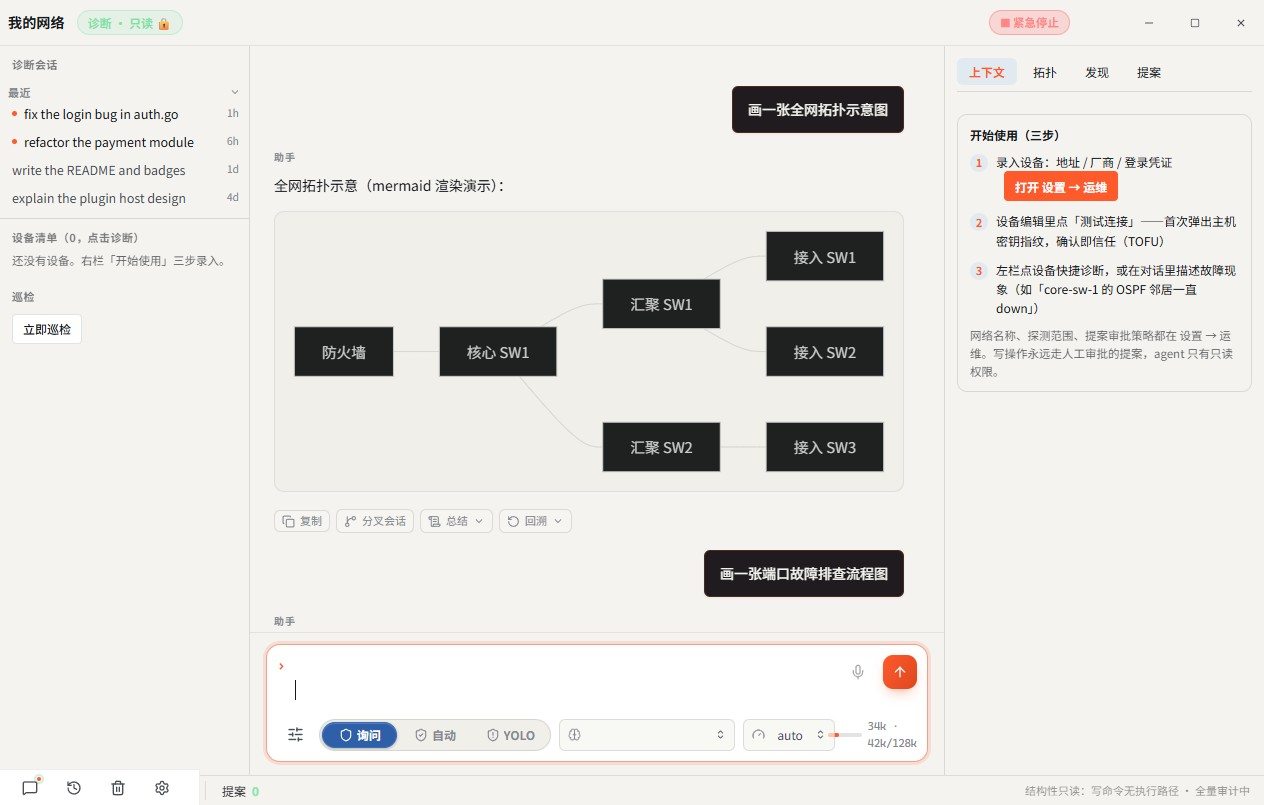
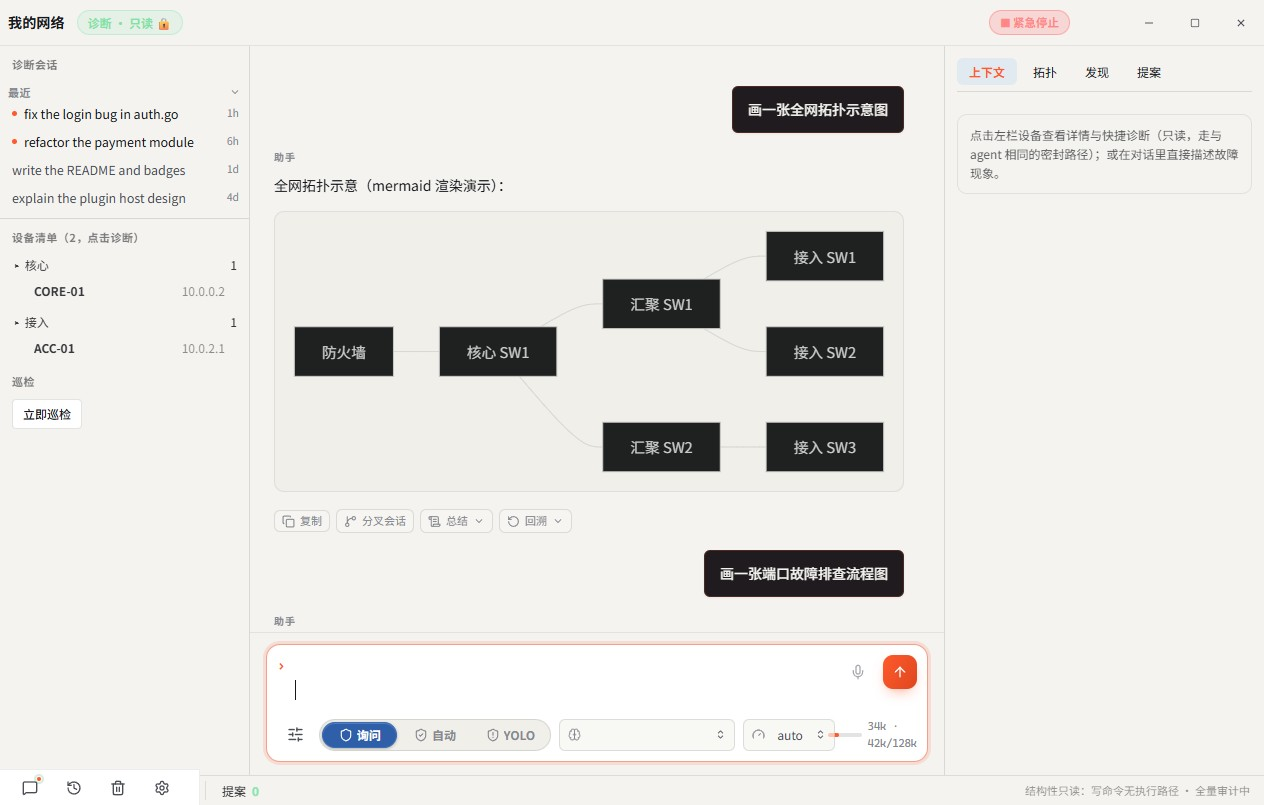
feat(netdev-ui): 交互式拓扑——节点点击→设备卡，配置入口（读即抓取/写走提案）
- TopologyMap 分层带布局（核心/汇聚/接入按连接度推断，未纳管邻居沉底虚线框），
  链路悬停显示端口，节点悬停显示 IP/纳管状态/连接度，选中节点高亮
- 点击纳管节点（名称或管理 IP 匹配设备清单）→ 右栏切到设备卡；
  未匹配给录入引导提示；进入拓扑 tab 自动生成一次
- 设备卡新增「抓取当前配置」（厂商只读 config 命令）与「AI 配置变更…」
  （composer 注入起草提示词——写操作仍必须走 netdev_propose 提案，密封不破）
- bridge mock：校园网拓扑数据 + CORE-01/ACC-01 种子设备，dev shell 可完整演示
- ndvshot: 拓扑点击链路断言（点 CORE-01 → dock 出现设备卡），ndv-5 证据图

diff --git a/desktop/frontend/src/layouts/NetDevLayout.tsx b/desktop/frontend/src/layouts/NetDevLayout.tsx
@@ -1,4 +1,4 @@
-import { type ReactNode, useCallback, useEffect, useState } from "react";
+import { type ReactNode, useCallback, useEffect, useRef, useState } from "react";
 import { app } from "../lib/bridge";
 import type { NetDevSettingsView, NetDevFinding, NetDevProposal, NetDevAuditEntryView, NetDevTopologyGraph } from "../lib/types";
 import "../styles/netdev.css";
@@ -47,6 +47,14 @@ const QUICK_BATTERY: Record<string, string[]> = {
   zte: ["show version", "show processor cpu", "show interface brief"],
 };
 
+// Read-only "grab the running config" command per vendor — the first step of
+// any 配置 task (backup / diff / proposal drafting).
+const CFG_CMD: Record<string, string> = {
+  huawei: "display current-configuration",
+  cisco: "show running-config",
+  zte: "show running-config",
+};
+
 type QuickResult = { command: string; output: string; isError: boolean; refused?: string };
 type DockTab = "context" | "topology" | "findings" | "proposals";
 
@@ -55,11 +63,15 @@ export function NetDevLayout({
   footerNode,
   sessionsNode,
   onOpenSettings,
+  onInsertComposer,
 }: {
   mainNode: ReactNode;
   footerNode: ReactNode;
   sessionsNode: ReactNode;
   onOpenSettings: (tab: string) => void;
+  // Fills the chat composer with a starter prompt (the AI-配置 entry point on
+  // the device card / topology nodes). Optional: card hides the button if absent.
+  onInsertComposer?: (text: string) => void;
 }) {
   const [settings, setSettings] = useState<NetDevSettingsView | null>(null);
   const [findings, setFindings] = useState<NetDevFinding[]>([]);
@@ -69,6 +81,7 @@ export function NetDevLayout({
   const [quick, setQuick] = useState<Record<string, QuickResult>>({});
   const [topo, setTopo] = useState<NetDevTopologyGraph | null>(null);
   const [topoBusy, setTopoBusy] = useState(false);
+  const [topoNotice, setTopoNotice] = useState("");
   const [inspBusy, setInspBusy] = useState(false);
   const [tab, setTab] = useState<DockTab>("context");
   const [err, setErr] = useState(""); // shown in the global title bar
@@ -116,6 +129,32 @@ export function NetDevLayout({
       setTopoBusy(false);
     }
   }, []);
+
+  // Topology node names come from LLDP sysnames, which need not equal the
+  // configured device names — match by name first, then by management IP.
+  const devicesRef = useRef<NetDevSettingsView["devices"]>([]);
+  devicesRef.current = settings?.devices ?? [];
+  const pickFromTopo = useCallback((name: string) => {
+    const node = topo?.nodes.find(v => v.name === name);
+    const hit = devicesRef.current.find(d => d.name === name || (node?.device_ip && d.address === node.device_ip));
+    if (hit) {
+      setSelected(hit.name);
+      setTab("context");
+      setTopoNotice("");
+      return;
+    }
+    setTopoNotice(`「${name}」不在设备清单——邻居表发现的节点（未纳管或无凭证），到 设置 → 运维 录入后即可点击诊断。`);
+  }, [topo]);
+
+  // Entering the 拓扑 tab auto-generates once (per mount) when devices exist,
+  // so the map is simply there after a probe instead of hiding behind a click.
+  const topoAutoFired = useRef(false);
+  useEffect(() => {
+    if (tab === "topology" && !topoAutoFired.current && !topo && !topoBusy && (settings?.devices?.length ?? 0) > 0) {
+      topoAutoFired.current = true;
+      void genTopology();
+    }
+  }, [tab, topo, topoBusy, settings, genTopology]);
 
   const runInspection = useCallback(async () => {
     setInspBusy(true);
@@ -228,6 +267,20 @@ export function NetDevLayout({
                   <span key={cmd} className="btn btn--secondary btn--small" role="button" onClick={() => void runQuick(selectedDevice.name, cmd)}>{cmd}</span>
                 ))}
               </div>
+              <div className="ndv__quick-cmds">
+                <span
+                  className="btn btn--secondary btn--small"
+                  role="button"
+                  onClick={() => void runQuick(selectedDevice.name, CFG_CMD[selectedDevice.vendor] ?? "display current-configuration")}
+                >抓取当前配置</span>
+                {onInsertComposer && (
+                  <span
+                    className="btn btn--primary btn--small"
+                    role="button"
+                    onClick={() => onInsertComposer(`帮我在 ${selectedDevice.name}（${selectedDevice.address}）上完成以下变更：\n变更内容：\n（请先用只读命令确认现状，再用 netdev_propose 起草提案——写命令必须包含对应的回滚命令，不会直接执行，需我在提案中心批准。）`)}
+                  >AI 配置变更…</span>
+                )}
+              </div>
               {Object.values(quick).map(r => (
                 <div key={r.command} className="ndv__quick-result">
                   <div className="ndv__quick-cmd" style={r.isError ? { color: "#ff8787" } : undefined}>{r.command}</div>
@@ -248,7 +301,15 @@ export function NetDevLayout({
                 {topoBusy ? "采集邻居表中…" : "生成拓扑（读取全网邻居表）"}
               </span>
             </div>
-            {topo && <TopologyMap graph={topo} />}
+            {topoNotice && (
+              <div className="ndv__hint" style={{ padding: 0, marginBottom: 8, color: "var(--accent, #7ab8ff)" }}>{topoNotice}</div>
+            )}
+            {topo && <TopologyMap graph={topo} selected={selected} selectedAddr={selectedDevice?.address} onPick={pickFromTopo} />}
+            {!topo && !topoBusy && (
+              <div className="ndv__hint" style={{ padding: 0 }}>
+                生成拓扑 = 对全部纳管设备执行只读的 LLDP/CDP 邻居表读取，按连接度自动分层为核心 / 汇聚 / 接入；未纳管邻居沉底（虚线框）。
+              </div>
+            )}
           </div>
         )}
 
@@ -341,39 +402,102 @@ function ProposalRow({ p }: { p: NetDevProposal }) {
   );
 }
 
-// TopologyMap: deterministic circular layout (hierarchical layout arrives
-// with the flowchart-engine integration).
-function TopologyMap({ graph }: { graph: NetDevTopologyGraph }) {
-  const W = 270, H = 190, R = Math.min(W, H) / 2 - 22;
-  const n = graph.nodes.length;
-  const pos = (i: number) => ({
-    x: W / 2 + R * Math.cos((2 * Math.PI * i) / Math.max(n, 1) - Math.PI / 2),
-    y: H / 2 + R * Math.sin((2 * Math.PI * i) / Math.max(n, 1) - Math.PI / 2),
+// TopologyMap: tiered layout — connection degree infers 核心/汇聚/接入 bands
+// (real ops shape), unmanaged neighbors sink to the bottom in grey. Ports ride
+// the link as a hover tooltip; clicking a managed node selects the device
+// (onPick); `selected` highlights the picked node.
+function TopologyMap({ graph, selected, selectedAddr, onPick }: { graph: NetDevTopologyGraph; selected?: string; selectedAddr?: string; onPick?: (name: string) => void }) {
+  const W = 520, H = 360;
+  // Degree per node (managed nodes only drive tiering).
+  const degree = new Map<string, number>();
+  for (const n of graph.nodes) degree.set(n.name, 0);
+  for (const e of graph.edges) {
+    if (e.local_device !== e.remote_device) {
+      degree.set(e.local_device, (degree.get(e.local_device) ?? 0) + 1);
+      degree.set(e.remote_device, (degree.get(e.remote_device) ?? 0) + 1);
+    }
+  }
+  const managed = graph.nodes.filter(v => v.managed);
+  // Tier thresholds relative to the busiest node: core ≥ 60% of max degree,
+  // aggregation ≥ 30%, rest access. Managed nodes without links join access.
+  const maxDeg = Math.max(1, ...managed.map(v => degree.get(v.name) ?? 0));
+  const tierOf = (name: string): number => {
+    const d = degree.get(name) ?? 0;
+    if (d >= maxDeg * 0.6) return 0;
+    if (d >= maxDeg * 0.3) return 1;
+    return 2;
+  };
+  // Unmanaged neighbors get their own bottom band (tier 3).
+  const bands: string[][] = [[], [], [], []];
+  for (const v of graph.nodes) bands[v.managed ? tierOf(v.name) : 3].push(v.name);
+  const pos = new Map<string, { x: number; y: number }>();
+  const bandY = [46, 148, 250, 322];
+  bands.forEach((band, bi) => {
+    const n = band.length;
+    band.forEach((name, i) => {
+      pos.set(name, { x: n === 1 ? W / 2 : 36 + ((W - 72) * i) / Math.max(n - 1, 1), y: bandY[bi] });
+    });
   });
-  const idx = new Map(graph.nodes.map((v, i) => [v.name, i]));
+  const node = (name: string) => graph.nodes.find(v => v.name === name);
+  const TIER_LABEL = ["核心层", "汇聚层", "接入层", "未纳管邻居"];
   return (
     <div>
-      <svg width={W} height={H} style={{ maxWidth: "100%", marginTop: 8 }}>
+      <svg viewBox={`0 0 ${W} ${H}`} style={{ width: "100%", maxWidth: 640, marginTop: 8, display: "block" }}>
+        {bandY.map((y, i) =>
+          bands[i].length > 0 ? (
+            <text key={i} x={10} y={y - 20} fontSize={10} fill="var(--text-dim, #888)" opacity={0.8}>
+              {TIER_LABEL[i]}
+            </text>
+          ) : null,
+        )}
         {graph.edges.map((e, i) => {
-          const a = idx.get(e.local_device), b = idx.get(e.remote_device);
-          if (a === undefined || b === undefined) return null;
-          const pa = pos(a), pb = pos(b);
-          return <line key={i} x1={pa.x} y1={pa.y} x2={pb.x} y2={pb.y} stroke="var(--border)" strokeWidth={1} />;
-        })}
-        {graph.nodes.map((v, i) => {
-          const p = pos(i);
+          const pa = pos.get(e.local_device), pb = pos.get(e.remote_device);
+          if (!pa || !pb) return null;
           return (
-            <g key={v.name}>
-              <circle cx={p.x} cy={p.y} r={5.5} fill={v.managed ? "var(--accent, #7ab8ff)" : "var(--text-dim, #888)"} />
-              <text x={p.x} y={p.y - 9} textAnchor="middle" fontSize={8.5} fill="var(--text, #ccc)">
-                {v.name.length > 10 ? v.name.slice(0, 10) + "…" : v.name}
+            <line
+              key={i}
+              x1={pa.x} y1={pa.y} x2={pb.x} y2={pb.y}
+              stroke="var(--border, #555)"
+              strokeWidth={1}
+              opacity={0.85}
+            >
+              <title>{`${e.local_device}:${e.local_port} ⇄ ${e.remote_device}${e.remote_port ? ":" + e.remote_port : ""} (${e.source})`}</title>
+            </line>
+          );
+        })}
+        {graph.nodes.map(v => {
+          const p = pos.get(v.name);
+          if (!p) return null;
+          const tier = v.managed ? tierOf(v.name) : 3;
+          const nv = node(v.name);
+          const sel = !!v.managed && (!!selected && (v.name === selected || nv?.device_ip === selectedAddr));
+          return (
+            <g
+              key={v.name}
+              style={{ cursor: v.managed && onPick ? "pointer" : "default" }}
+              onClick={() => v.managed && onPick?.(v.name)}
+            >
+              <rect
+                x={p.x - 30} y={p.y - 10} width={60} height={20} rx={5}
+                fill={sel
+                  ? "var(--accent-dim, rgba(122,184,255,.2))"
+                  : v.managed ? "var(--bg-elev, #2a2a2e)" : "transparent"}
+                stroke={sel
+                  ? "var(--accent, #7ab8ff)"
+                  : v.managed ? (tier === 0 ? "var(--accent, #7ab8ff)" : "var(--border, #555)") : "var(--border, #555)"}
+                strokeWidth={sel ? 2 : v.managed && tier === 0 ? 1.6 : 1}
+                strokeDasharray={v.managed ? undefined : "3 3"}
+              />
+              <text x={p.x} y={p.y + 3.5} textAnchor="middle" fontSize={9} fill={v.managed ? "var(--text, #ccc)" : "var(--text-dim, #888)"}>
+                {v.name.length > 9 ? v.name.slice(0, 9) + "…" : v.name}
               </text>
+              <title>{`${v.name}${nv?.device_ip ? " · " + nv.device_ip : ""}${v.managed ? " · 纳管" : " · 未纳管"} · 连接 ${degree.get(v.name) ?? 0}${v.managed && onPick ? " · 点击查看设备" : ""}`}</title>
             </g>
           );
         })}
       </svg>
       <div style={{ opacity: 0.6, fontSize: 11 }}>
-        {graph.nodes.filter(v => v.managed).length} 纳管 · {graph.nodes.filter(v => !v.managed).length} 未纳管（灰，不可连） · {graph.edges.length} 链路 · {graph.at}
+        {graph.nodes.filter(v => v.managed).length} 纳管 · {graph.nodes.filter(v => !v.managed).length} 未纳管（虚线框,不可连） · {graph.edges.length} 链路 · 悬停链路看端口 · {graph.at}
       </div>
     </div>
   );

diff --git a/desktop/frontend/src/lib/bridge.ts b/desktop/frontend/src/lib/bridge.ts
@@ -97,6 +97,7 @@ import type {
   BotDockStatusView,
   CatalogEntry,
   MarketSourceMeta,
+  NetDevTopologyNode,
 } from "./types";
 
 const GLOBAL_PROJECT_ORDER_KEY = "__global__";
@@ -1700,7 +1701,17 @@ function makeMockApp(): AppBindings {
   // NetDev mock: an in-memory settings store so the browser dev shell can
   // exercise the netdev panel without the Go backend. Passwords/audit/ssh
   // imports are stubbed — the real implementations live in the Go bindings.
-  let mockNetDev: NetDevSettingsView = { enabled: false, networkName: "我的网络", devices: [], hops: [], groups: [], auditRetention: "", scopes: [] };
+  // Two seeded devices mirror the topology mock (CORE-01/ACC-01) so the
+  // click-a-node → device card flow is demoable in the browser dev shell.
+  let mockNetDev: NetDevSettingsView = {
+    enabled: false,
+    networkName: "我的网络",
+    devices: [
+      { name: "CORE-01", vendor: "huawei", os: "vrp", model: "S5731", address: "10.0.0.2", port: 22, via: [], group: "核心", username: "netops", passwordEnv: "NETDEV_CORE01_PW", passwordSet: true, identityFile: "", encoding: "", allowTelnet: false },
+      { name: "ACC-01", vendor: "huawei", os: "vrp", model: "S3100", address: "10.0.2.1", port: 22, via: [], group: "接入", username: "netops", passwordEnv: "NETDEV_ACC01_PW", passwordSet: true, identityFile: "", encoding: "", allowTelnet: false },
+    ],
+    hops: [], groups: [], auditRetention: "", scopes: [],
+  };
   return {
     async NetDevSettings() {
       return mockNetDev;
@@ -1720,7 +1731,36 @@ function makeMockApp(): AppBindings {
     async NetDevQuickExec(device: string, command: string) {
       return { device, command, class: "read", output: "(browser dev mock: no device backend)", is_error: false };
     },
-    async NetDevTopologySnapshot() { return null; },
+    async NetDevTopologySnapshot() {
+      // Browser-dev stand-in shaped like a real small campus net (FW → 2 core →
+      // 2 aggregation → 3 access + an unmanaged neighbor) so the tiered
+      // TopologyMap is demoable without the Go backend.
+      const N = (name: string, managed: boolean, ip?: string): NetDevTopologyNode => ({ name, managed, device_ip: ip });
+      return {
+        nodes: [
+          N("FW-01", true, "10.0.0.1"),
+          N("CORE-01", true, "10.0.0.2"), N("CORE-02", true, "10.0.0.3"),
+          N("AGG-01", true, "10.0.1.1"), N("AGG-02", true, "10.0.1.2"),
+          N("ACC-01", true, "10.0.2.1"), N("ACC-02", true, "10.0.2.2"), N("ACC-03", true, "10.0.2.3"),
+          N("SRV-ESXi", false), N("IPSLA-P", false),
+        ],
+        edges: [
+          { local_device: "FW-01", local_port: "GE0/0/1", remote_device: "CORE-01", remote_port: "GE1/0/1", source: "lldp" },
+          { local_device: "FW-01", local_port: "GE0/0/2", remote_device: "CORE-02", remote_port: "GE1/0/1", source: "lldp" },
+          { local_device: "CORE-01", local_port: "GE1/0/24", remote_device: "CORE-02", remote_port: "GE1/0/24", source: "lldp" },
+          { local_device: "CORE-01", local_port: "GE1/0/2", remote_device: "AGG-01", remote_port: "GE0/0/1", source: "lldp" },
+          { local_device: "CORE-02", local_port: "GE1/0/2", remote_device: "AGG-01", remote_port: "GE0/0/2", source: "lldp" },
+          { local_device: "CORE-02", local_port: "GE1/0/3", remote_device: "AGG-02", remote_port: "GE0/0/1", source: "lldp" },
+          { local_device: "AGG-01", local_port: "GE0/0/23", remote_device: "AGG-02", remote_port: "GE0/0/23", source: "lldp" },
+          { local_device: "AGG-01", local_port: "GE0/0/3", remote_device: "ACC-01", remote_port: "GE0/0/1", source: "lldp" },
+          { local_device: "AGG-01", local_port: "GE0/0/4", remote_device: "ACC-02", remote_port: "GE0/0/1", source: "lldp" },
+          { local_device: "AGG-02", local_port: "GE0/0/3", remote_device: "ACC-03", remote_port: "GE0/0/1", source: "lldp" },
+          { local_device: "AGG-01", local_port: "GE0/0/48", remote_device: "SRV-ESXi", source: "cdp" },
+          { local_device: "ACC-03", local_port: "GE0/0/24", remote_device: "IPSLA-P", source: "cdp" },
+        ],
+        at: new Date().toISOString().slice(0, 19).replace("T", " "),
+      };
+    },
     async NetDevApproveProposal(_id: string, _confirm2: boolean) { throw new Error("browser dev mock: no proposal backend"); },
     async NetDevExecuteProposal(_id: string) { throw new Error("browser dev mock: no proposal backend"); },
     async NetDevRollbackProposal(_id: string) { throw new Error("browser dev mock: no proposal backend"); },

diff --git a/desktop/frontend/src/App.tsx b/desktop/frontend/src/App.tsx
@@ -3068,6 +3068,7 @@ export default function App() {
             footerNode={footerNode}
             sessionsNode={sidebarSessionsNode}
             onOpenSettings={(t) => { setSettingsTarget(t as never); setSettingsPayload(null); }}
+            onInsertComposer={addWorkspaceTextToComposer}
           />
         )}
         <AppChrome

diff --git a/cmd/ndvshot/main.go b/cmd/ndvshot/main.go
@@ -13,6 +13,7 @@ import (
 	"fmt"
 	"os"
 	"path/filepath"
+	"strings"
 	"time"
 
 	"github.com/chromedp/chromedp"
@@ -145,6 +146,34 @@ func main() {
 		fatal("flowchart-svg-rendered: 0 — no visible flowchart found in DOM (err: %v)", err)
 	}
 	fmt.Printf("flowchart-svg-rendered: %d diagram(s)\n", flowCount)
+
+	// Interactive topology: open the 拓扑 tab (auto-generates), click the
+	// CORE-01 node, and assert the dock switched to that device's card.
+	if err := chromedp.Run(bctx,
+		chromedp.Click(`//button[contains(., "拓扑")]`, chromedp.BySearch),
+		chromedp.Sleep(1200*time.Millisecond),
+		chromedp.Evaluate(`(function(){var gs=document.querySelectorAll(".ndv__dock svg g"); for (var i=0;i<gs.length;i++){ if(gs[i].textContent.indexOf("CORE-01")>=0){ gs[i].dispatchEvent(new MouseEvent("click",{bubbles:true})); return "clicked"; }} return "not-found";})()`, new(string)),
+		chromedp.Sleep(800*time.Millisecond),
+		chromedp.Evaluate(visibleMermaidScrollJS, new(bool)), // no-op if no diagrams; keeps order stable
+	); err != nil {
+		fatal("topology click: %v", err)
+	}
+	var dockText string
+	if err := chromedp.Run(bctx,
+		chromedp.Text(".ndv__dock", &dockText, chromedp.ByQuery),
+		chromedp.ActionFunc(func(ctx context.Context) error {
+			return saveShot(ctx, filepath.Join(*out, "ndv-5-topology.png"))
+		}),
+	); err != nil {
+		fatal("topology dock probe: %v", err)
+	}
+	fmt.Println("shot: ndv-5-topology.png")
+	dockNow := oneLine(dockText)
+	fmt.Printf("dock-after-click: %.160q\n", dockNow)
+	if !strings.Contains(dockNow, "CORE-01") || !strings.Contains(dockNow, "huawei") {
+		fatal("topology click did not open the CORE-01 device card (dock: %.120q)", dockNow)
+	}
+	fmt.Println("topology-click→device-card: OK")
 }
 
 // visibleMermaidScrollJS scrolls the last visible mermaid diagram into view,
